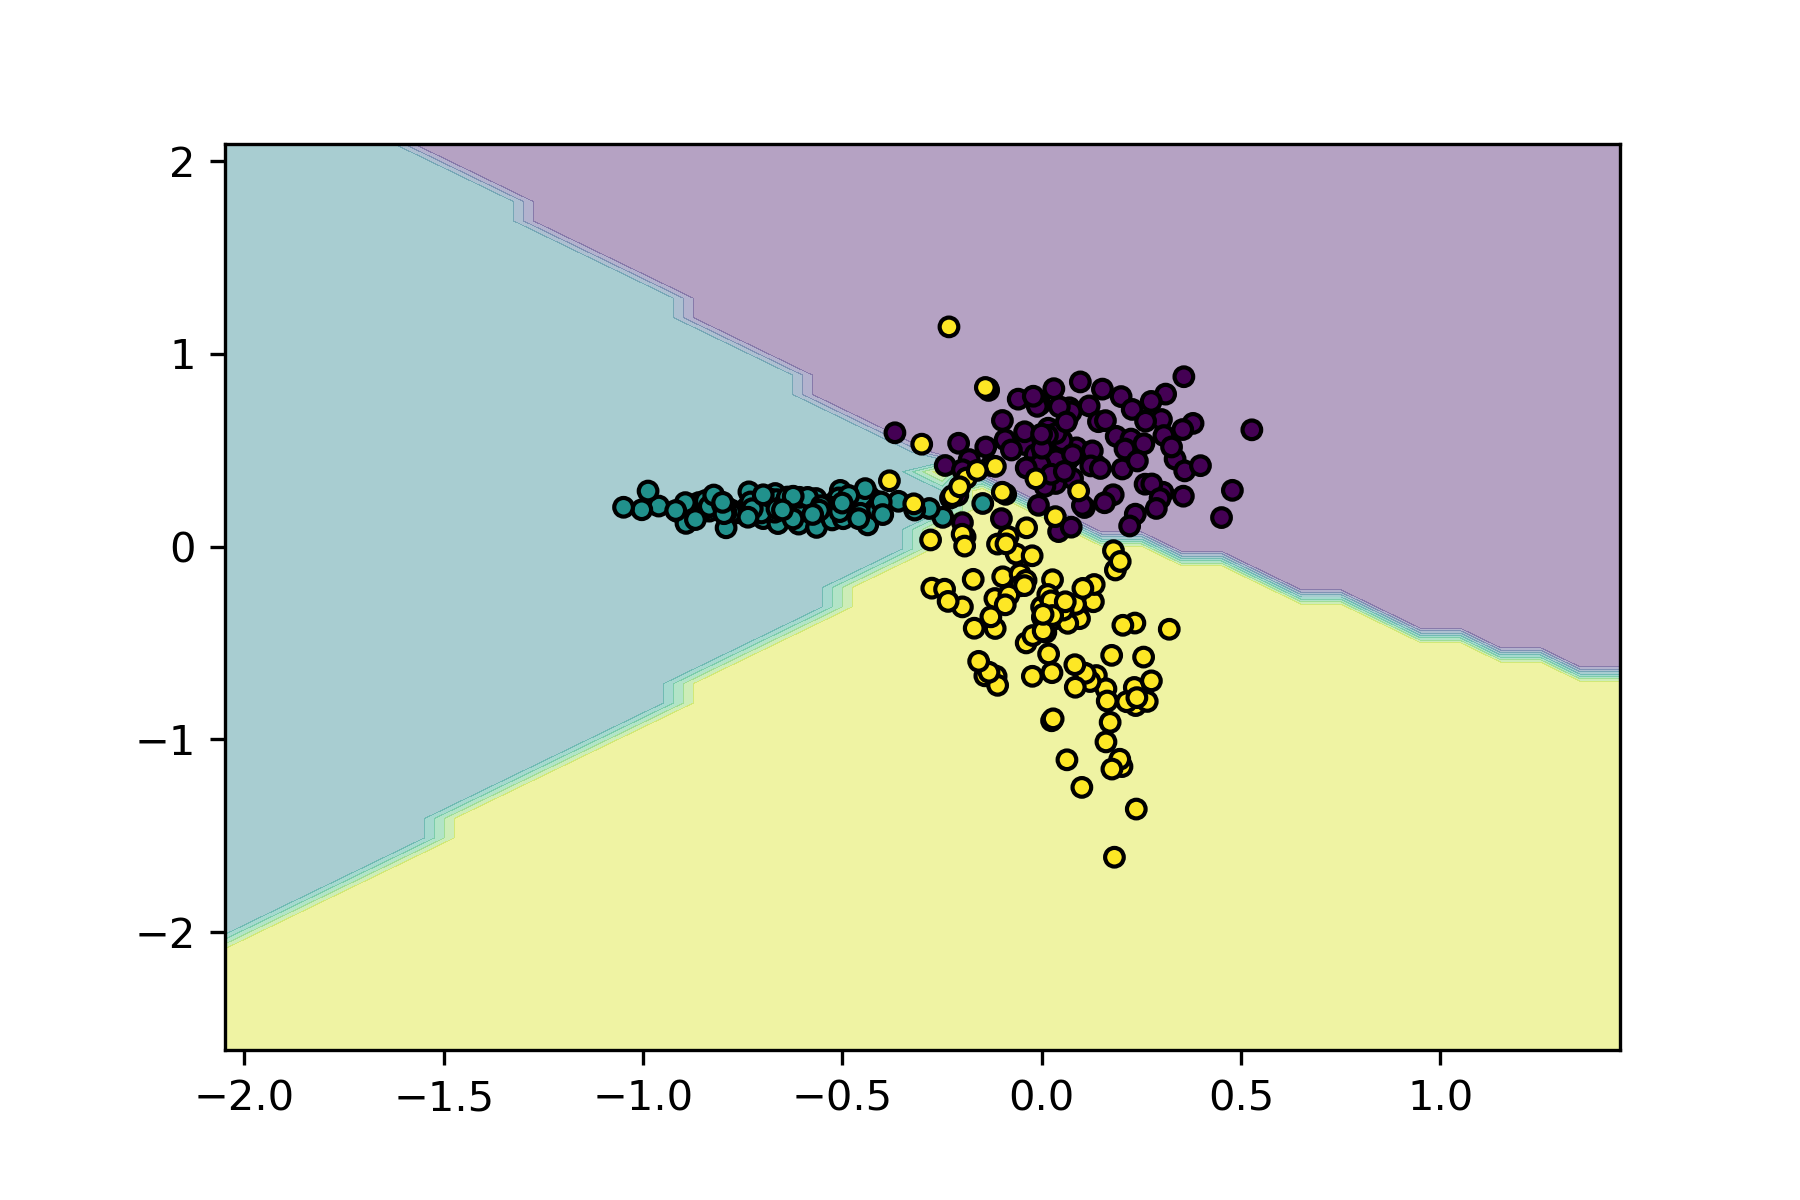
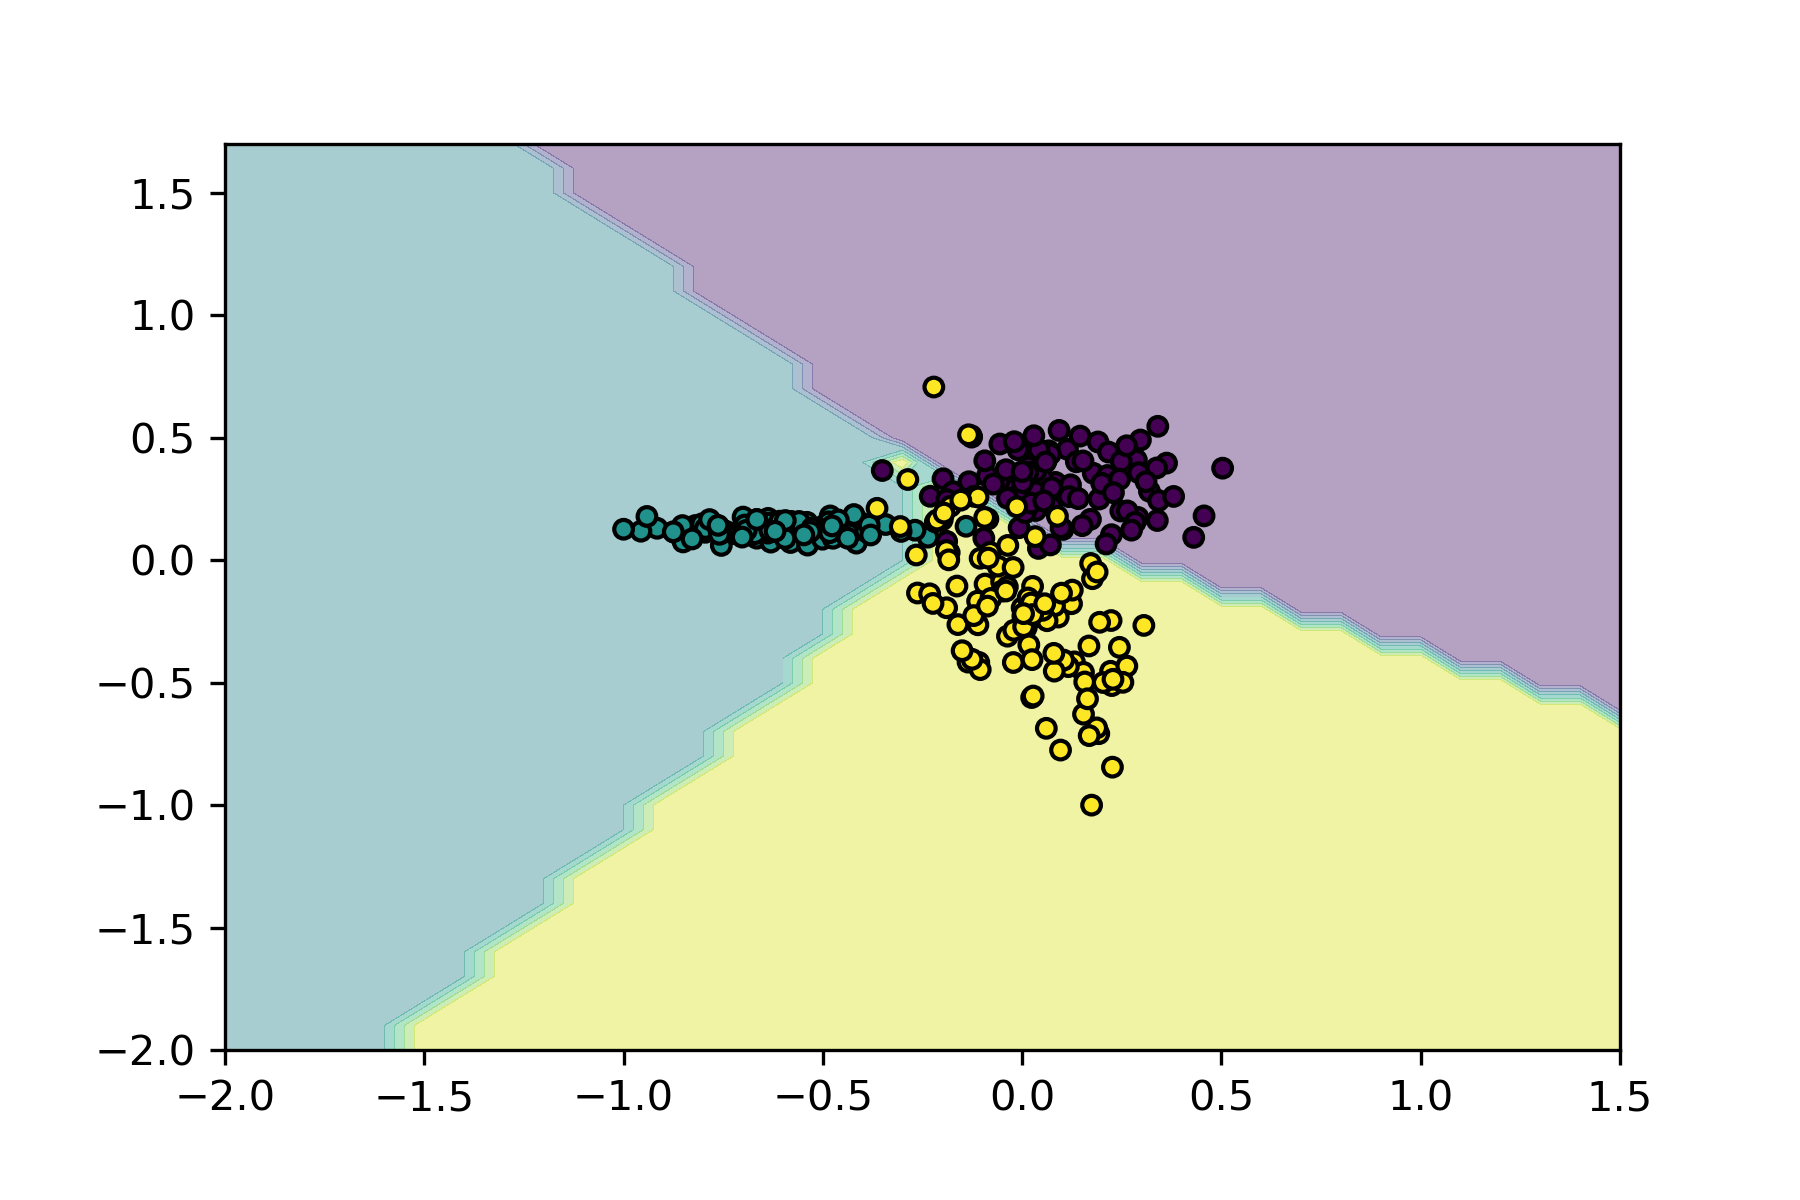
classification: windows dataset results

diff --git a/solutions_classification.py b/solutions_classification.py
@@ -1,6 +1,7 @@
 # %%
 import joblib
 import pandas as pd
+import numpy as np
 
 from mlp.mlp_classifier import MLPClassifier
 import mlp.activation_functions as activation_functions
@@ -9,12 +10,17 @@ import mlp.error_functions as error_functions
 from visualizer import Visualizer
 vis = Visualizer()
 
-def process_classification_dataset(name, clf, size = 100, datasets_path_format = "data/projekt1_test/Classification/data.{}.{}.{}.csv"):
+def process_classification_dataset(name, clf, normalize=False, size = 100, datasets_path_format = "data/projekt1_test/Classification/data.{}.{}.{}.csv"):
     train = pd.read_csv(datasets_path_format.format(name, 'train', size))
     test = pd.read_csv(datasets_path_format.format(name, 'test', size))
 
+
     X_train, y_train = train.iloc[:, :-1], train.cls
     X_test, y_test = test.iloc[:, :-1], test.cls
+
+    if normalize:
+        X_train /= np.max(X_train)
+        X_test /= np.max(X_test)
 
     clf.fit(X_train, y_train)
     print(clf.score(X_test, y_test))
@@ -72,7 +78,18 @@ clf = MLPClassifier(activation_function = \
     hidden_layers = [5, 5, 3], bias = True, batch_portion = 0.5, \
     num_iterations = 40000, eta = 0.1, moment = 0)
 
-process_classification_dataset('three_gauss', clf, \
+process_classification_dataset('three_gauss', clf, normalize=True, \
     datasets_path_format='data/classification/data.{}.{}.{}.csv')
+
+# %% windows
+clf = MLPClassifier(activation_function = \
+        activation_functions.tanh, \
+    error_function = error_functions.cross_entropy, \
+    hidden_layers = [30, 30], bias = True, batch_portion = 0.7, \
+    num_iterations = 30000, eta = 0.2, moment = 0.2)
+
+process_classification_dataset('windows', clf, normalize=True, \
+    datasets_path_format='data/classification/data.{}.{}.{}.csv')
+
 
 # %%
